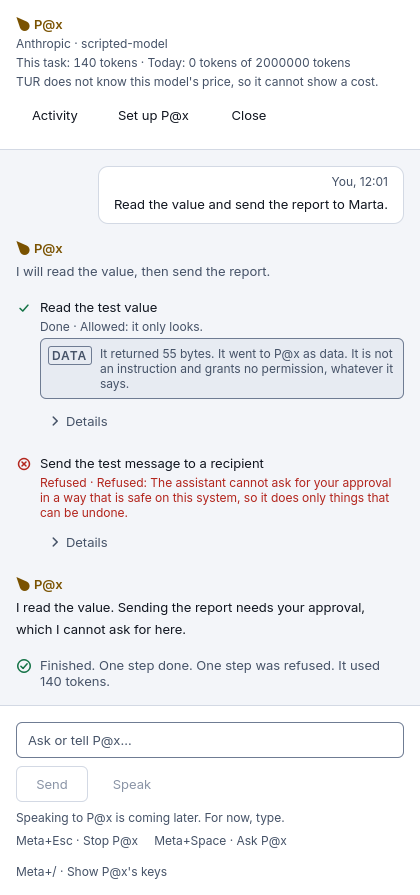
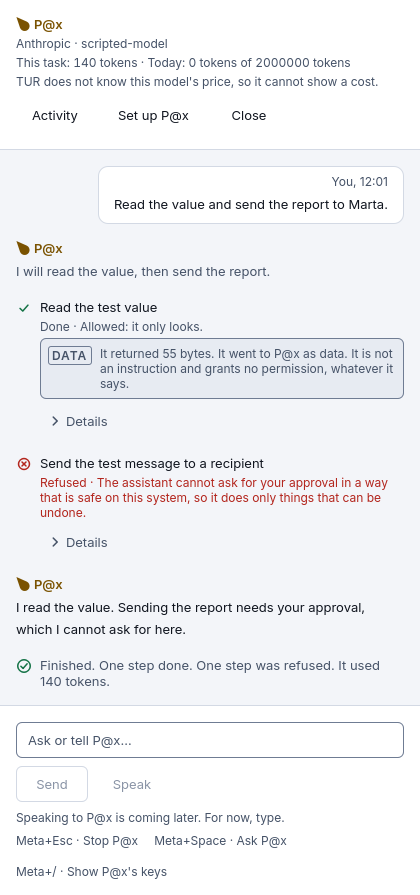
tur-pax-ui: the four re-worded pictures (run 43445883484), looked at; desktop-6 filled in
Claude-Session: https://claude.ai/code/session_01TAE3MDbpJhFsWUoLMWTGAQ

Changed region(s): [[0.0929, 0.5128, 0.9286, 0.6034]]

diff --git a/docs/reports/desktop-6.md b/docs/reports/desktop-6.md
@@ -10,7 +10,9 @@ Subsystem:        Desktop programs (desktop/apps/tur-pax-ui), P@x's keys
                   (desktop/kit/pax), desktop CI
 Build ID:         CI only (desktop workflow; no image build: the image does
                   not install desktop programs yet, issue #59)
-Source revision:  feat/pax-ui, pull request 102; head HEAD-PENDING
+Source revision:  feat/pax-ui, pull request 102; head is the commit after 533a059,
+                  which adds the four re-accepted pictures and fills this
+                  report; the code is 533a059's
 
 SUMMARY
 - What changed: P@x has a window. tur-pax-ui is the ask bar (Meta+Space);
@@ -53,12 +55,20 @@ FILES
 
 BUILD
 - desktop workflow, builder image (Fedora 45, Qt 6.11.2), warnings as
-  errors, and again with AddressSanitizer and UBSan: RUNS-PENDING
+  errors, and again with AddressSanitizer and UBSan: success, desktop
+  run 43445883484 (job 131955349694)
 
 TESTS
-- Unit and QML tests: RUNS-PENDING
-- Screenshots: RUNS-PENDING
-- End to end against the real tur-pax serve: RUNS-PENDING
+- Unit and QML tests: 55 of 55 ctest programs pass, and 55 of 55 under
+  the sanitizers (1404 test functions in the plain run); qmllint: no
+  warnings. Desktop run 43445883484
+- Screenshots: 58 new references (29 states, dark and light), each
+  looked at; every picture rendered twice and identical. Run 43445883484
+  differed only on the four re-worded pictures, accepted from it
+- End to end against the real tur-pax serve: record 31 of 31 checks,
+  the fixture equal to the recording; ui 11 of 11 checks: the rows came
+  one by one (1, 2, 3, 4, 5, 6), stopped 50 ms after Stop, the sandboxed
+  command killed. Run 43445883484, job 131955349359
 - Hardware tests: NOT RUN. Under KWin: NOT RUN for tur-pax-ui. On the
   image: NOT RUN (not installed).
 
@@ -105,13 +115,13 @@ or the scripted model's. Each picture was looked at.
 | Presence; parsed replies; refusals as codes and the service's sentence; signals drive the conversation | `tst_paxui_client`, on a private bus with the stand-in | pass |
 | A key reaches the service and stays nowhere in the client | `tst_paxui_client` (every property read back), `tst_setup` (the field is emptied; the stand-in notes only the length) | pass |
 | The stop key stops a running task and never starts P@x's service | `tst_paxui_client` (`tur-pax-ui --stop`, with an activation file the bus could use) | pass |
-| Streaming in order, one row at a time; a refused step with its reason and code; stop mid-step; the day's limit said once | `tst_paxui_conversation` (recorded signals), `tst_conversation.qml` (the panel), end to end (the real service) | RESULT-PENDING |
-| Consent with its version; local tiers, sizes, licences; download progress and cancel; provider terms; settings validation and the service's refusal; limits | `tst_setup.qml` | RESULT-PENDING |
-| Contrast in both variants; gold only inside P@x's marks; keyboard and accessible names in both directions; no clipped text at 200 % and right-to-left long | `tst_walks.qml`, 29 states | RESULT-PENDING |
+| Streaming in order, one row at a time; a refused step with its reason and code; stop mid-step; the day's limit said once | `tst_paxui_conversation` (recorded signals), `tst_conversation.qml` (the panel), end to end (the real service) | pass |
+| Consent with its version; local tiers, sizes, licences; download progress and cancel; provider terms; settings validation and the service's refusal; limits | `tst_setup.qml` | pass |
+| Contrast in both variants; gold only inside P@x's marks; keyboard and accessible names in both directions; no clipped text at 200 % and right-to-left long | `tst_walks.qml`, 29 states | pass |
 | The program loads every view with no QML warning, with no session bus | `pax-ui-starts-*` | pass |
 | The keys in the desktop file are `commands.json`'s | `gen_commands.py --check` and `--self-test` (`boundary` job) | pass |
-| The fixture is what the service says | `e2e.py record` (`pax-ui-end-to-end`) | RESULT-PENDING |
-| Against the real `tur-pax serve`: asked, steps streamed, stopped within 2 s, the command killed | `e2e.py ui` + `e2e_ask_stop.qml` | RESULT-PENDING |
+| The fixture is what the service says | `e2e.py record` (`pax-ui-end-to-end`) | pass |
+| Against the real `tur-pax serve`: asked, steps streamed, stopped within 2 s, the command killed | `e2e.py ui` + `e2e_ask_stop.qml` | pass |
 
 ## What CI found on the way
 
@@ -200,4 +210,17 @@ in the activity; no code on a `TextAdded` notice.
 
 ## CI runs
 
-RUNS-PENDING
+| Workflow | Run | Commit | Result |
+|---|---|---|---|
+| desktop | 43420786400 | fc649ac | failure: one compile error; gen_commands self-test |
+| desktop | 43421515197 | 29d955d | failure: the temporary fixture; the e2e recording worked (30 of 31) |
+| desktop | 43424271552 | 78d485d | failure: e2e bus refused the container (AppArmor); recording drift |
+| desktop | 43435903329 | 8cdb1d5 | failure: e2e first task too fast to see; one test compare; no references (pictures accepted from it) |
+| desktop | 43445883484 | 533a059 | every job passes but Screenshots, which differed only on the four re-worded pictures |
+| pax | 43445883438 | 533a059 | success (both jobs, the accessibility job included) |
+| rust | 43445883632 | 533a059 | success |
+| iso | 43445883486 | 533a059 | success |
+| gate | 43445883386 | 533a059 | success at its pull-request evaluation |
+
+The head commit after 533a059 changes four pictures and this report; its runs
+are the ones the pull request shows.
